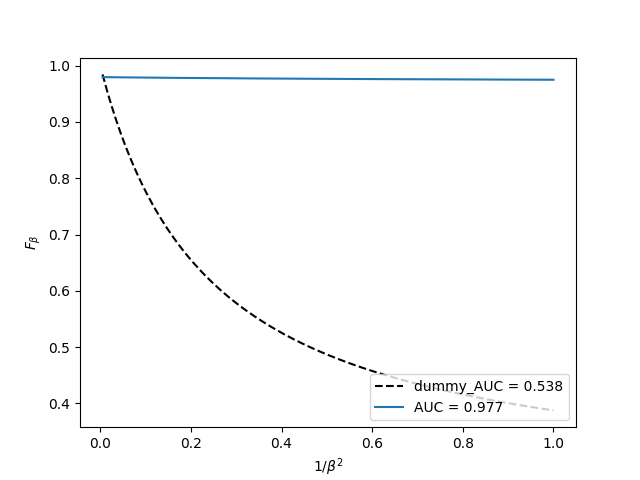
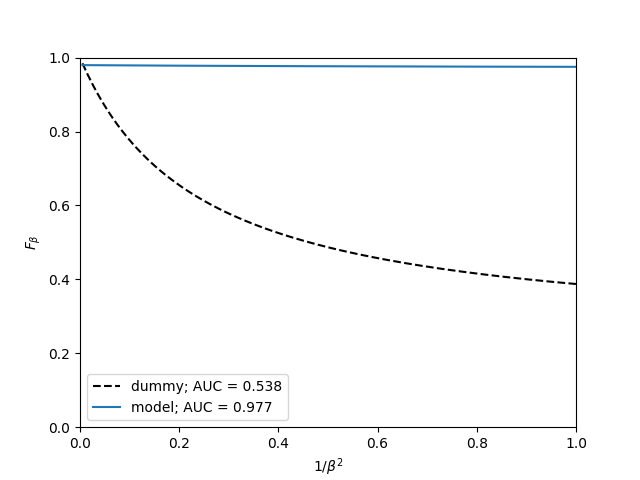
Updating graphs

diff --git a/Classification/src/fbeta_precision.py b/Classification/src/fbeta_precision.py
@@ -31,14 +31,16 @@ def fbeta(network_model, batch_size, n_epochs, optimizer, data_set='heridal', tr
     dummy = (beta2_array + 1)*(.5)/(.5*beta2_array + 1)
     dummy_area = (2*np.sum(dummy) - dummy[0] - dummy[199])/(2*199)
 
-    label = 'AUC = {:.3f}'
-    dummy_label = 'dummy_AUC = {:.3f}'
+    label = 'model; AUC = {:.3f}'
+    dummy_label = 'dummy; AUC = {:.3f}'
     plt.figure()
     plt.plot(beta2_array, dummy, 'k--', label=dummy_label.format(dummy_area))    
     plt.plot(beta2_array, np.asarray(f_beta_list), label=label.format(area))
+    plt.xlim([0, 1])
+    plt.ylim([0, 1])
     plt.xlabel('$\u03B2 ^{2}$')
     plt.ylabel('$F_\u03B2$')
-    plt.legend(loc='lower right')                
+    plt.legend(loc='best')                
     plt.savefig(os.path.join(output, 'f_beta_precision_beta2_f_beta_' + model_name + '.png'))
     plt.close
 
@@ -68,14 +70,16 @@ def fbeta(network_model, batch_size, n_epochs, optimizer, data_set='heridal', tr
         dummy = (beta2_array + 1)*(dummy_precision)/(dummy_precision*beta2_array + 1)
         dummy_area = (2*np.sum(dummy) - dummy[0] - dummy[199])/(2*199)
 
-        label = 'AUC = {:.3f}'
-        dummy_label = 'dummy_AUC = {:.3f}'
+        label = 'model; AUC = {:.3f}'
+        dummy_label = 'dummy; AUC = {:.3f}'
         plt.figure()
         plt.plot(beta2_array, dummy, 'k--', label=dummy_label.format(dummy_area))
         plt.plot(beta2_array, np.asarray(f_beta_list), label=label.format(area))
+        plt.xlim([0, 1])
+        plt.ylim([0, 1])
         plt.xlabel('$\u03B2 ^{2}$')
         plt.ylabel('$F_\u03B2$')
-        plt.legend(loc='lower right')               
+        plt.legend(loc='best')               
         plt.savefig(os.path.join(output, "f_beta_precision_test"+str(ratio)+'beta2_f_beta_' + model_name + '.png'))
         plt.close
 

diff --git a/Classification/src/fbeta_recall.py b/Classification/src/fbeta_recall.py
@@ -31,14 +31,16 @@ def fbeta(network_model, batch_size, n_epochs, optimizer, data_set='heridal', tr
     dummy = (beta2_array + 1)*(.5)/(.5*beta2_array + 1)
     dummy_area = (2*np.sum(dummy) - dummy[0] - dummy[199])/(2*199)
 
-    label = 'AUC = {:.3f}'
-    dummy_label = 'dummy_AUC = {:.3f}'
+    label = 'model; AUC = {:.3f}'
+    dummy_label = 'dummy; AUC = {:.3f}'
     plt.figure()
     plt.plot(1 / beta2_array, dummy, 'k--', label=dummy_label.format(dummy_area))
     plt.plot(1 / beta2_array, np.asarray(f_beta_list), label=label.format(area))
+    plt.xlim([0, 1])
+    plt.ylim([0, 1])
     plt.xlabel('$1/\u03B2 ^{2}$')
     plt.ylabel('$F_\u03B2$')
-    plt.legend(loc='lower right')                
+    plt.legend(loc='best')                
     plt.savefig(os.path.join(output, 'f_beta_recall_beta2_f_beta_' + model_name + '.png'))
     plt.close
 
@@ -69,14 +71,16 @@ def fbeta(network_model, batch_size, n_epochs, optimizer, data_set='heridal', tr
         dummy_area = (2*np.sum(dummy) - dummy[0] - dummy[199])/(2*199)
 
 
-        label = 'AUC = {:.3f}'
-        dummy_label = 'dummy_AUC = {:.3f}'
+        label = 'model; AUC = {:.3f}'
+        dummy_label = 'dummy; AUC = {:.3f}'
         plt.figure()
         plt.plot(1 / beta2_array, dummy, 'k--', label=dummy_label.format(dummy_area))
         plt.plot(1 / beta2_array, np.asarray(f_beta_list), label=label.format(area))
+        plt.xlim([0, 1])
+        plt.ylim([0, 1])
         plt.xlabel('$1/\u03B2 ^{2}$')
         plt.ylabel('$F_\u03B2$')
-        plt.legend(loc='lower right')               
+        plt.legend(loc='best')               
         plt.savefig(os.path.join(output, "f_beta_recall_test"+str(ratio)+'beta2_f_beta_' + model_name + '.png'))
         plt.close
 
